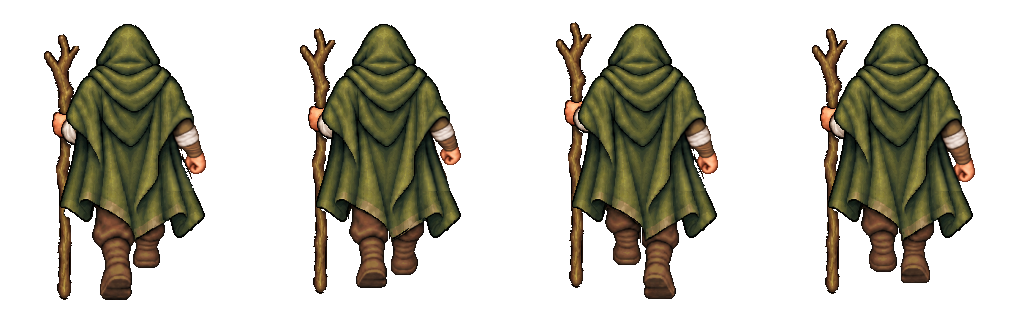
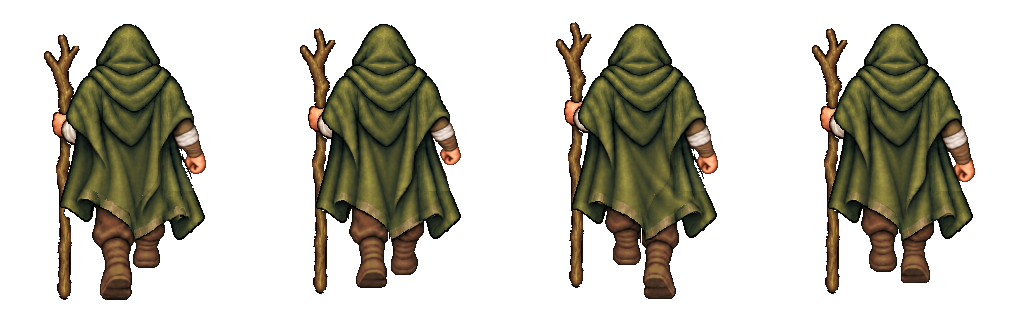
Animate rear druid cloak folds and restrained hem follow-through

diff --git a/scripts/prepare-druid-back-detailed.py b/scripts/prepare-druid-back-detailed.py
@@ -5,7 +5,7 @@ import runpy
 
 import numpy as np
 from PIL import Image, ImageDraw
-from scipy.ndimage import label
+from scipy.ndimage import distance_transform_edt, label, map_coordinates
 
 ROOT = Path(__file__).resolve().parents[1]
 OUT = ROOT / 'docs/art/druid-back-refinement-v1'
@@ -13,6 +13,7 @@ SIZE = (256, 320)
 BASELINE = 300
 LIFT = (0, 6, 12, 6)
 FRAME_MS = 240
+CLOAK_HEM = ((0, 2), (1, 1), (2, 0), (1, 1))
 BOOT_CENTERS = (115, 147)
 LEG_SPLITS = (134, 130, 130, 130)
 ARM_REGION = (168, 112, 215, 191)
@@ -79,8 +80,46 @@ def staff_cutout(source):
     return Image.fromarray(data)
 
 
+def moving_cloak(base, source, phase):
+    """Animate cloth only: drawn folds and a small downward hem follow-through.
+
+    Keep the hood/shoulder geometry anchored. Downward displacement at the
+    lower edge avoids uncovering any undrawn fabric in the accepted leg layers.
+    """
+    data = np.array(base)
+    drawn = np.array(source)
+    yy, xx = np.indices(data.shape[:2])
+    old_hsv = np.array(base.convert('RGB').convert('HSV'))
+    src_hsv = np.array(source.convert('RGB').convert('HSV'))
+    cloth = (src_hsv[:, :, 0] >= 29) & (src_hsv[:, :, 0] <= 110) & (src_hsv[:, :, 1] > 40)
+    # Fold shadows must move too; a hue test alone leaves dotted remnants
+    # of the old dark folds. Exclude brown legs at the drawn hem instead.
+    cloth |= (src_hsv[:, :, 2] < 70) & (drawn[:, :, 1].astype(float) >= .9 * drawn[:, :, 0])
+    old_cloth = (old_hsv[:, :, 0] >= 32) & (old_hsv[:, :, 0] <= 110) & (old_hsv[:, :, 1] > 40)
+    old_cloth |= (old_hsv[:, :, 2] < 70) & (data[:, :, 1].astype(float) >= .9 * data[:, :, 0])
+    cloth &= old_cloth  # preserve the original warm tan hem trim
+    cloth &= (data[:, :, 3] > 0) & (drawn[:, :, 3] >= 128)
+    interior = np.clip((distance_transform_edt(data[:, :, 3] > 0) - 5) / 7, 0, 1)
+    blend = .8 * np.clip((yy - 112) / 28, 0, 1) * interior * cloth
+    rgb = data[:, :, :3].astype(float)
+    data[:, :, :3] = np.rint(rgb + (drawn[:, :, :3].astype(float) - rgb) * blend[:, :, None]).astype('uint8')
+    colored = np.array(front['match_cloth'](Image.fromarray(data)))
+    # Alternating weight follows the two steps; the center stays at the same
+    # height in every phase. No X displacement or whole-character translation.
+    left, right = CLOAK_HEM[phase]
+    mix = .5 + .5 * np.tanh((xx - 128) / 30)
+    weight = np.clip((yy - 150) / 55, 0, 1) ** 2
+    # The right-arm patch ends at y=191; leave its attachment untouched.
+    weight *= np.where(xx >= ARM_REGION[0], np.clip((yy - 194) / 11, 0, 1), 1)
+    dy = (left * (1 - mix) + right * mix) * weight
+    coords = np.array([yy - dy, xx])
+    # Nearest sampling preserves the native pixel texture and binary alpha.
+    return Image.fromarray(np.stack([map_coordinates(colored[:, :, channel], coords,
+        order=0, mode='constant', cval=0) for channel in range(4)], axis=-1))
+
+
 def corrected_bodies(original_body):
-    """Fixed accepted torso plus drawn arm/legs, registered independently.
+    """Anchored accepted torso with independent cloth, arm and leg layers.
 
     Never align the torso to a swinging boot. Each complete visible leg is
     translated horizontally once to its fixed walking lane, without stretching
@@ -88,10 +127,13 @@ def corrected_bodies(original_body):
     """
     source = Image.open(OUT / 'walk-gait-source.png').convert('RGBA')
     arm_source = Image.open(OUT / 'walk-free-arm-source.png').convert('RGBA')
+    cloak_source = Image.open(OUT / 'walk-cloak-motion-source.png').convert('RGBA')
     if source.size != (512, 640):
         raise ValueError('Gait source must contain four native 256x320 cells, 2x2.')
     if arm_source.size != (188, 79):
         raise ValueError('Arm source must contain four native 47x79 regions.')
+    if cloak_source.size != (512, 640):
+        raise ValueError('Cloak source must contain four native 256x320 cells, 2x2.')
     opening = Image.new('L', SIZE)
     ImageDraw.Draw(opening).polygon(LEG_OPENING, fill=255)
     data = np.array(original_body)
@@ -99,7 +141,7 @@ def corrected_bodies(original_body):
     left, top, right, bottom = ARM_REGION
     data[top:bottom, left:right] = 0
     cloak = Image.fromarray(data)
-    frames, leg_frames, arm_frames, registrations = [], [], [], []
+    frames, leg_frames, arm_frames, cloak_frames, registrations = [], [], [], [], []
     yy, _ = np.indices((SIZE[1], SIZE[0]))
     for i in range(4):
         x, y = (i % 2) * SIZE[0], (i // 2) * SIZE[1]
@@ -158,14 +200,17 @@ def corrected_bodies(original_body):
         pixels[np.isin(components, tiny)] = 0
         patch = Image.fromarray(pixels)
         arm.paste(front['match_cloth'](patch), (left, top))
+        cloth = moving_cloak(cloak, cloak_source.crop((x, y, x + SIZE[0], y + SIZE[1])), i)
         body = legs.copy()
-        body.alpha_composite(cloak)
+        body.alpha_composite(cloth)
         body.alpha_composite(arm)
         frames.append(body)
         leg_frames.append(legs)
         arm_frames.append(arm)
+        cloak_frames.append(cloth)
         registrations.append(registration)
     save(cloak, 'walk-fixed-cloak-256x320.png')
+    save(front['strip'](cloak_frames), 'walk-cloak-motion-256x320.png')
     save(front['strip'](leg_frames), 'walk-legs-256x320.png')
     save(front['strip'](arm_frames), 'walk-right-arm-region-256x320.png')
     return frames, registrations
@@ -201,17 +246,21 @@ def main():
                        duration=FRAME_MS, loop=0, disposal=2, optimize=False)
     metadata = {'integrated': False, 'direction': 'up', 'frameWidth': 256, 'frameHeight': 320,
         'frameCount': 4, 'frameDurationMs': FRAME_MS, 'previewScale': 1, 'baselineY': BASELINE,
-        'scale': scale, 'registration': 'fixed first torso; drawn legs in fixed vertical lanes',
+        'scale': scale, 'registration': 'anchored hood/torso; moving cloth and fixed vertical leg lanes',
         'gait': {'source': 'walk-gait-source.png', 'torsoFixed': True, 'torsoOffsetY': [0, 0, 0, 0],
                  'bootSoleCentersX': list(BOOT_CENTERS), 'legRegistration': leg_registration,
                  'rightArmRegion': list(ARM_REGION), 'armSource': 'walk-free-arm-source.png',
                  'neutralArmForearmForeshorteningPx': 5},
+        'cloak': {'source': 'walk-cloak-motion-source.png', 'hoodAndShouldersAnchored': True,
+                  'foldBlendStartsY': 112, 'maxHemFollowThroughPx': 2,
+                  'hemLeftRightOffsets': [list(pair) for pair in CLOAK_HEM]},
         'anchors': [{k: v for k, v in p.items() if k != 'image'} for p in bodies],
         'staff': {'anatomicalHand': 'left', 'screenSide': 'left', 'rigidMaster': True,
                   'liftPixels': list(LIFT), 'plantedOffsetY': planted_offset,
                   'plantsPerCycle': 1, 'stepsPerCycle': 2},
-        'sources': ['walk-source.png', 'walk-body-source.png', 'walk-gait-source.png', 'walk-free-arm-source.png'],
-        'bodyLayersBackToFront': ['walk-legs-256x320.png', 'walk-fixed-cloak-256x320.png',
+        'sources': ['walk-source.png', 'walk-body-source.png', 'walk-gait-source.png',
+                    'walk-free-arm-source.png', 'walk-cloak-motion-source.png'],
+        'bodyLayersBackToFront': ['walk-legs-256x320.png', 'walk-cloak-motion-256x320.png',
                                   'walk-right-arm-region-256x320.png'],
         'layersBackToFront': ['walk-arm-staff-256x320.png', 'walk-body-256x320.png']}
     (OUT / 'art.json').write_text(json.dumps(metadata, indent=2) + '\n')

diff --git a/docs/art/druid-back-refinement-v1/README.md b/docs/art/druid-back-refinement-v1/README.md
@@ -10,6 +10,10 @@
 
 После оценки первого цикла исправлены подпрыгивание, боковое смещение ног и почти неподвижная свободная рука. Теперь основа корпуса и плаща взята из **одной первой позы**, без покадровой вертикальной привязки к сапогам. Капюшон и верх корпуса совпадают по пикселям во всех кадрах. Ноги и свободная правая рука перерисованы отдельно: они меняют позу, а корпус остаётся на месте. Ноги передвигаются по двум постоянным вертикальным линиям: центры подошв x=115 и x=147. Перенос ног по X служит только выравниванию рисунков на этих линиях; в готовом цикле подошвы не гуляют в стороны. Наклоны, вращение и покадровое растягивание корпуса не используются.
 
+Следующая оценка: движения ног и рук нравятся, но неподвижный плащ делает походку жёсткой. Теперь ниже y=112 добавлены **четыре нарисованные фазы складок**, согласованные с чередованием шагов. Из нового листа используются только ткань и тени складок; ноги, руки и новый рисунок головы из него не подставляются. Цвета берутся из принятой палитры; переход к неподвижным плечам плавный, прежняя окантовка сохраняется.
+
+Нижние полотнища немного следуют за шагом: левое/правое запаздывание по Y составляет 0/2 → 1/1 → 2/0 → 1/1 пикселя, максимум **2 пикселя**, без смещения всего героя. Середина подола сохраняет одну высоту в цикле. Движение края собирается на исходной сетке без размытия и не открывает недорисованные участки ног. Капюшон, верх корпуса и принятые слои ног, правой руки и посоха сохранены.
+
 Правая рука проходит четыре фазы: нейтральная → вперёд → нейтральная → назад. Два нейтральных положения используют один рисунок; его предплечье немного укорочено в проекции, при сохранении места крепления, манжеты и размера кисти. Медиана положения светлых пикселей кисти в кадре: y=162 → 155 → 162 → 169; небольшой мах составляет около 14 пикселей. Вырезка руки включает прилегающий участок плаща, закрывающий область за меняющимся локтем.
 
 Посох остаётся в анатомической левой руке — со спины она **слева на изображении**. Принятый слой этой руки и посоха сохранён **без изменения пикселей**. Один рисунок переносится целиком, без зеркалирования, изменения длины или хвата. Подъём 0 → 6 → 12 → 6 пикселей даёт **одну опору на два шага**. В заднем ракурсе плащ перекрывает часть руки и древка.
@@ -22,8 +26,10 @@
 - [Первоначальное тело — первая поза используется для неподвижной основы](walk-body-source.png).
 - [Новые рисунки ног и свободной руки, четыре ячейки 256×320](walk-gait-source.png).
 - [Уточнённые фазы свободной руки, четыре вырезки 47×79](walk-free-arm-source.png).
-- Тело собирается из слоёв: [ноги](walk-legs-256x320.png) → [неподвижная основа плаща](walk-fixed-cloak-256x320.png) → [правая рука с прилегающим фрагментом плаща](walk-right-arm-region-256x320.png).
+- [Нарисованные фазы ткани](walk-cloak-motion-source.png): лист с фигурами для контекста, используется только внутренний рисунок плаща.
+- [Неподвижная основа плаща](walk-fixed-cloak-256x320.png) сохранена как шаблон.
+- Тело собирается из слоёв: [ноги](walk-legs-256x320.png) → [движущийся плащ](walk-cloak-motion-256x320.png) → [правая рука с прилегающим фрагментом плаща](walk-right-arm-region-256x320.png).
 - Полная фигура: [принятая рука с посохом](walk-arm-staff-256x320.png) → [собранное тело поверх них](walk-body-256x320.png).
 - [Размеры, привязки и параметры цикла](art.json).
 
-Повторная сборка: `python scripts/prepare-druid-back-detailed.py` (Pillow, NumPy, SciPy). Скрипт использует общие операции размера, палитры и непрозрачной ткани из подготовки фронтального набора. Проверены четыре разных кадра, размеры, длительности GIF, двоичная прозрачность, отсутствие отдельных фрагментов, точная сборка из слоёв, неподвижность капюшона/верхнего корпуса, постоянные центры подошв, движение кисти, сохранность принятого слоя посоха и воспроизводимость файлов. GIF и новые PNG не импортируются игрой; игровые файлы этим исправлением не менялись.
+Повторная сборка: `python scripts/prepare-druid-back-detailed.py` (Pillow, NumPy, SciPy). Скрипт использует общие операции размера, палитры и непрозрачной ткани из подготовки фронтального набора. Проверены четыре разных кадра плаща, размеры, длительности GIF, двоичная прозрачность, отсутствие отдельных фрагментов и новых просветов в ткани, точная сборка из слоёв, неподвижность капюшона/верхнего корпуса, неизменность PNG ног, обеих рук и посоха, сохранность обуви и воспроизводимость файлов. GIF и новые PNG не импортируются игрой; игровые файлы этим исправлением не менялись.

diff --git a/docs/project-notes.md b/docs/project-notes.md
@@ -14,6 +14,7 @@
 - Пользователь принял исправленный v2 и явно попросил интеграцию. Подключены стоящий фронтальный PNG и ходьба вниз 256×320. Размер в мире 87,5×109,375 и физическое тело 20×25 сохранены. Общий игровой атлас теперь 256×320 на кадр; прежние остальные ракурсы и циклы увеличиваются ровно ×4 с NEAREST, без перерисовки. Новые направления меняются через источники и размеры кадров в `druidArt.ts`.
 - По тому же запросу подготовлена отдельная подробная GIF ходьбы вверх — `docs/art/druid-back-refinement-v1`: четыре кадра 256×320, 240 мс, выравнивание по капюшону; единый слой руки/посоха с подъёмом 0/6/12/6, одна опора на два шага. Это предложение ещё не интегрировано; W пока использует прежний Basic. Ждать оценки этой GIF до подключения. Боковые ракурсы и неподвижный боковой плащ по новым подробным образцам пока не исправлялись.
 - Первая оценка ходьбы вверх: посох и держащая его рука нравятся — их слой сохранить точно. Исправить подпрыгивание, боковой разнос ног и отсутствие маха свободной правой руки. В обновлённой GIF корпус и плащ собираются из одной неподвижной основы, ноги и правая рука нарисованы отдельно. Центры подошв закреплены на x=115/147, корпус не выравнивается по каждой движущейся стопе. Правая кисть проходит нейтральное/переднее/нейтральное/заднее положения с размахом около 14 пикселей, плечо остаётся на месте. Интеграция вверх по-прежнему ожидает оценки пользователя.
+- Пользователь одобрил исправленную походку, но отметил неподвижность плаща. Добавлены четыре фазы рисунка складок ниже y=112 и небольшое следование подола за шагом: левое/правое смещение 0/2, 1/1, 2/0, 1/1 пикселя. Капюшон и корпус не подпрыгивают; принятые PNG ног, свободной правой руки и руки с посохом сохранены точно. Новая версия GIF остаётся отдельной, без интеграции.
 
 ## Текущий фокус: базовый образ друида
 
